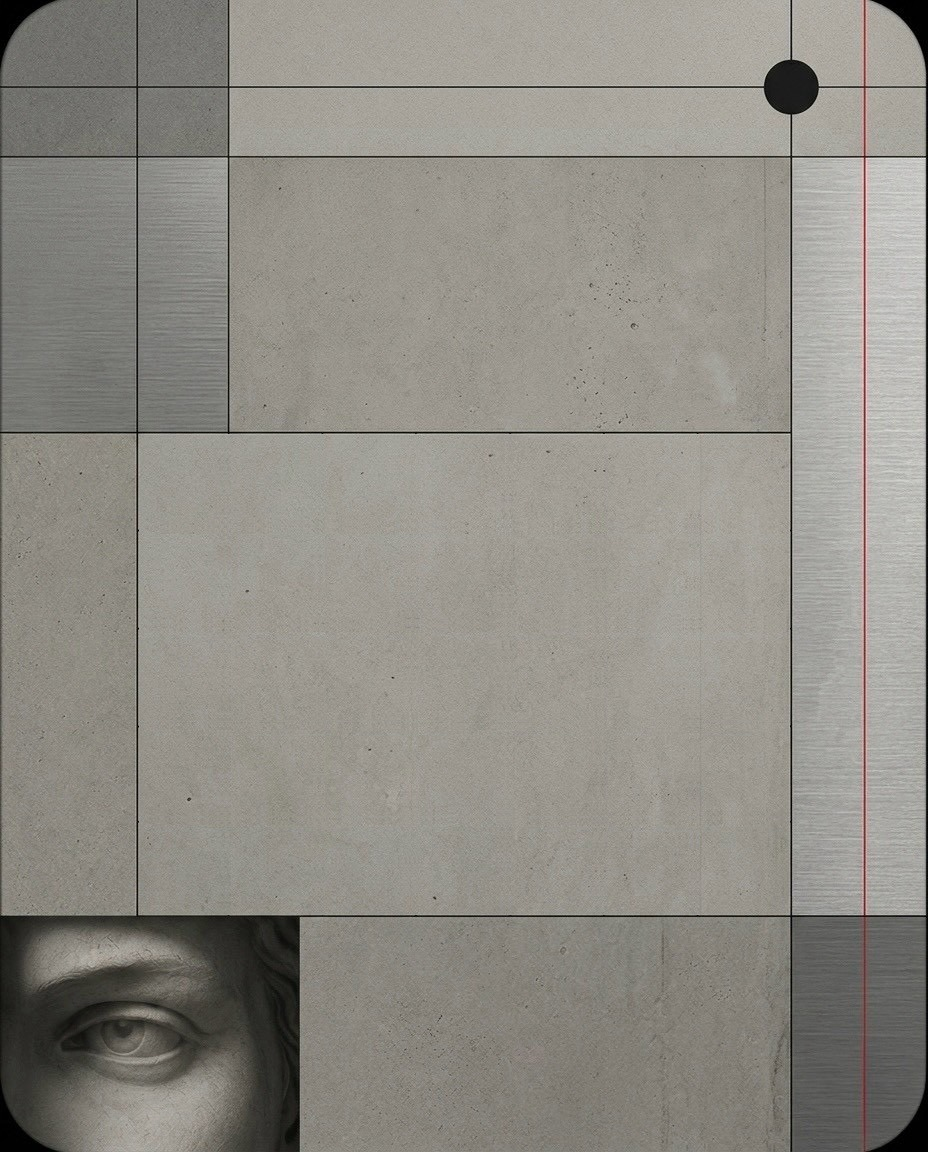
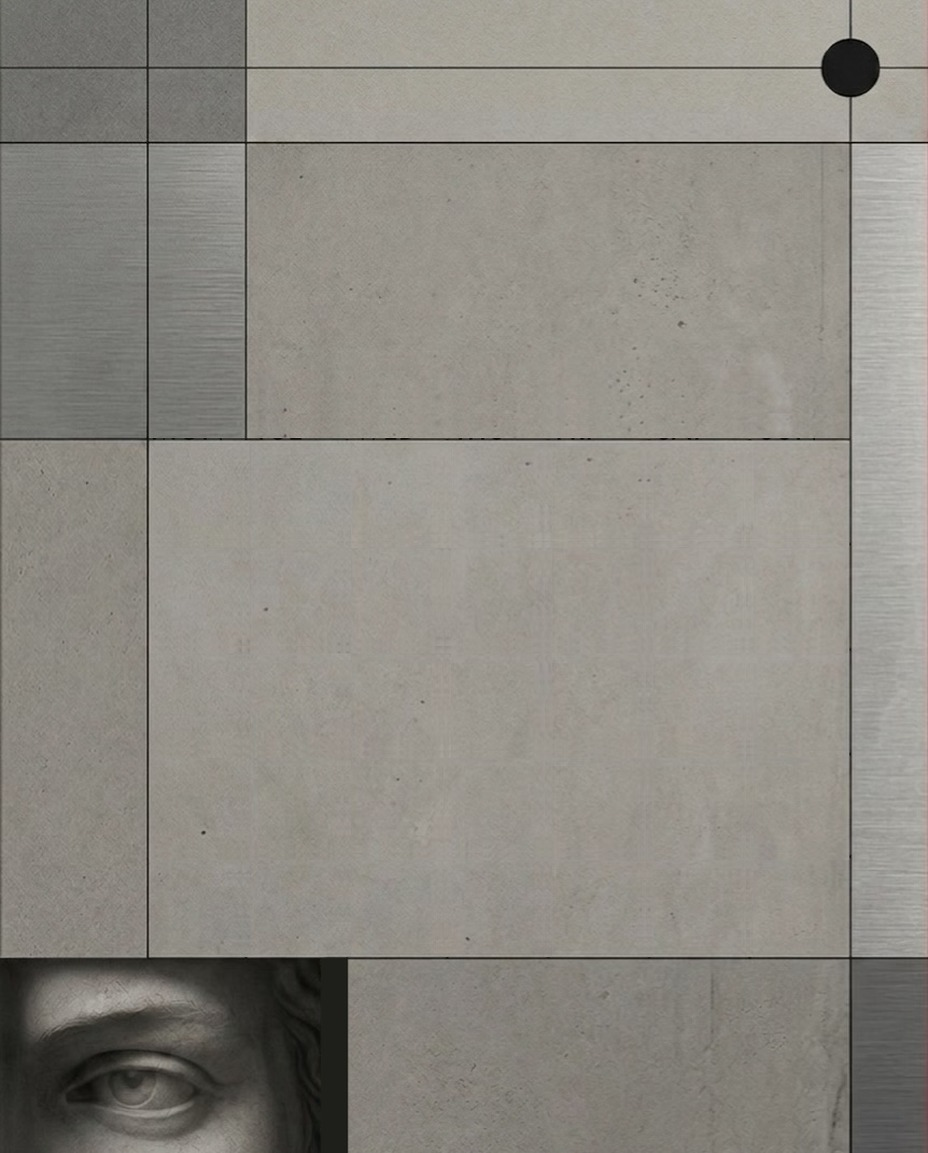
介面改為 Apple 風格（淺深色、分段控制、分組卡片、底部面板）；換上四角完整的底圖

diff --git a/index.html b/index.html
@@ -7,77 +7,112 @@
 <meta name="description" content="115 機械工程系學會每月封面與行事曆。AI 助手請閱讀本頁「給 AI 助手的說明」，把行事曆文字轉成網址回覆給使用者。">
 <link rel="stylesheet" href="https://fonts.googleapis.com/css2?family=Noto+Sans+TC:wght@100;300;400;500;700&family=Oswald:wght@400;500&display=swap">
 <style>
-/* Layout: dark concrete stage; header with month switch, two tabs (封面 / 行事曆), one large image per tab with its download button. */
+/* Shell follows Apple HIG: system font, grouped backgrounds, translucent bar, segmented control, inset-grouped cards. Light + dark. The poster below keeps its own fixed look. */
 :root{
-  color-scheme:dark;
-  --ground:#121213; --panel:#1b1b1c; --field:#252526; --rule:#39393b;
-  --ink:#ecebe7; --dim:#a19f9a; --accent:#a3201f; --accent-ink:#fff4f2; --ok:#8fc7a5;
-  --ui-font:"Noto Sans TC","PingFang TC",system-ui,sans-serif;
-  --num-font:Oswald,"Noto Sans TC",sans-serif;
+  color-scheme:light dark;
+  --bg:#f2f2f7; --card:#fff; --fill:rgba(118,118,128,.12); --fill2:rgba(118,118,128,.2);
+  --label:#000; --label2:rgba(60,60,67,.6); --label3:rgba(60,60,67,.3); --sep:rgba(60,60,67,.29);
+  --bar:rgba(249,249,249,.8); --seg-on:#fff; --seg-shadow:0 3px 8px rgba(0,0,0,.12),0 3px 1px rgba(0,0,0,.04);
+  --tint:#b3261e; --tint-ink:#fff; --green:#248a3d;
+  --shadow:0 8px 30px rgba(0,0,0,.14);
+  --ui-font:-apple-system,BlinkMacSystemFont,"SF Pro Text","PingFang TC","Noto Sans TC",system-ui,sans-serif;
   --red:#7c1010; --line:rgba(112,18,18,.92);
 }
-*{box-sizing:border-box}
+@media (prefers-color-scheme:dark){:root:not([data-theme="light"]){
+  --bg:#000; --card:#1c1c1e; --fill:rgba(118,118,128,.24); --fill2:rgba(118,118,128,.32);
+  --label:#fff; --label2:rgba(235,235,245,.6); --label3:rgba(235,235,245,.3); --sep:rgba(84,84,88,.65);
+  --bar:rgba(22,22,23,.8); --seg-on:#636366; --seg-shadow:0 3px 8px rgba(0,0,0,.12);
+  --tint:#ff453a; --tint-ink:#fff; --green:#30d158; --shadow:0 8px 30px rgba(0,0,0,.6);
+}}
+:root[data-theme="dark"]{
+  --bg:#000; --card:#1c1c1e; --fill:rgba(118,118,128,.24); --fill2:rgba(118,118,128,.32);
+  --label:#fff; --label2:rgba(235,235,245,.6); --label3:rgba(235,235,245,.3); --sep:rgba(84,84,88,.65);
+  --bar:rgba(22,22,23,.8); --seg-on:#636366; --seg-shadow:0 3px 8px rgba(0,0,0,.12);
+  --tint:#ff453a; --tint-ink:#fff; --green:#30d158; --shadow:0 8px 30px rgba(0,0,0,.6);
+}
+*{box-sizing:border-box;-webkit-tap-highlight-color:transparent}
 [hidden]{display:none!important}
-body{margin:0;background:var(--ground);color:var(--ink);font:14px/1.55 var(--ui-font);min-height:100vh}
+body{margin:0;background:var(--bg);color:var(--label);font:17px/1.35 var(--ui-font);letter-spacing:-.01em;min-height:100vh;-webkit-font-smoothing:antialiased}
 
-header{position:sticky;top:0;z-index:5;background:rgba(18,18,19,.94);backdrop-filter:blur(6px);border-bottom:1px solid var(--rule);padding:10px 16px 0;display:grid;gap:8px}
+/* navigation bar */
+header{position:sticky;top:0;z-index:5;background:var(--bar);-webkit-backdrop-filter:saturate(180%) blur(20px);backdrop-filter:saturate(180%) blur(20px);
+  border-bottom:.5px solid var(--sep);padding:calc(env(safe-area-inset-top) + 8px) 16px 10px;display:grid;gap:10px}
 .top{display:flex;align-items:center;justify-content:space-between;gap:12px;max-width:1100px;width:100%;margin:0 auto}
-.brand{margin:0;font-size:15px;font-weight:500;letter-spacing:.25em;white-space:nowrap}
-.brand small{display:block;font-size:11px;color:var(--dim);letter-spacing:.2em;font-weight:400}
-.month{display:flex;align-items:center;gap:6px}
-.month b{font:500 20px/1 var(--num-font);letter-spacing:.04em;min-width:96px;text-align:center;font-variant-numeric:tabular-nums}
-.tabs{display:flex;gap:4px;max-width:1100px;width:100%;margin:0 auto}
-.tabs button{border:0;border-bottom:2px solid transparent;border-radius:0;background:none;color:var(--dim);padding:8px 16px 10px;font-size:15px;letter-spacing:.3em}
-.tabs button[aria-selected="true"]{color:var(--ink);border-bottom-color:var(--accent)}
-@media(max-width:420px){.brand{font-size:13px;letter-spacing:.12em}.month b{min-width:80px;font-size:17px}}
+.brand{margin:0;font-size:22px;font-weight:700;letter-spacing:.01em;white-space:nowrap}
+.brand small{display:block;font-size:13px;color:var(--label2);font-weight:400;letter-spacing:0;margin-top:1px}
+.month{display:flex;align-items:center;gap:2px}
+.month b{font-size:17px;font-weight:600;min-width:92px;text-align:center;font-variant-numeric:tabular-nums}
+@media(max-width:420px){.brand{font-size:19px}.month b{min-width:80px;font-size:16px}}
 
-main{max-width:1100px;margin:0 auto;padding:20px 16px 48px}
-.view{display:grid;grid-template-columns:minmax(0,1fr) 340px;gap:24px;align-items:start}
-.side{display:flex;flex-direction:column;gap:16px;min-width:0}
+/* segmented control */
+.tabs{display:grid;grid-template-columns:1fr 1fr;padding:2px;border-radius:9px;background:var(--fill);max-width:360px;width:100%;margin:0 auto}
+.tabs button{border:0;border-radius:7px;background:none;color:var(--label);min-height:32px;padding:0 12px;font:500 14px/1 var(--ui-font);letter-spacing:0;transition:background .2s,box-shadow .2s}
+.tabs button[aria-selected="true"]{background:var(--seg-on);box-shadow:var(--seg-shadow);font-weight:600}
+
+main{max-width:1100px;margin:0 auto;padding:20px 16px calc(48px + env(safe-area-inset-bottom))}
+.view{display:grid;grid-template-columns:minmax(0,1fr) 360px;gap:28px;align-items:start}
+.side{display:flex;flex-direction:column;gap:20px;min-width:0}
 .frame{display:flex;justify-content:center;min-width:0}
-@media(max-width:860px){.view{grid-template-columns:minmax(0,1fr)}}
+@media(max-width:860px){.view{grid-template-columns:minmax(0,1fr);gap:24px}}
 
-#coverImg{display:block;width:100%;max-width:min(560px,calc((100vh - 170px)*.8));aspect-ratio:1080/1350;object-fit:cover;border-radius:6px;box-shadow:0 10px 40px rgba(0,0,0,.6);background:#6f6e6a}
-.nocover{width:100%;max-width:420px;aspect-ratio:1080/1350;border:1px dashed var(--rule);border-radius:6px;display:grid;place-items:center;color:var(--dim)}
+#coverImg{display:block;width:100%;max-width:min(560px,calc((100vh - 190px)*.8));aspect-ratio:1080/1350;object-fit:cover;border-radius:14px;box-shadow:var(--shadow);background:var(--fill)}
+.nocover{width:100%;max-width:420px;aspect-ratio:1080/1350;border-radius:14px;background:var(--card);display:grid;place-items:center;color:var(--label2);font-size:15px}
 
-h2{margin:0;font-size:14px;font-weight:700}
-.side p{margin:0;color:var(--dim);font-size:12.5px}
-textarea,input[type=text]{width:100%;background:var(--field);color:var(--ink);border:1px solid var(--rule);border-radius:8px;padding:9px 10px;font:inherit;font-size:14px;line-height:1.6}
+/* inset grouped content */
+.group{background:var(--card);border-radius:12px;overflow:hidden}
+.group>.row{padding:12px 16px}
+.group>.row+.row{border-top:.5px solid var(--sep);margin-left:16px;padding-left:0}
+h2{margin:0;font-size:22px;font-weight:700;letter-spacing:.01em}
+.hint{margin:6px 0 0;color:var(--label2);font-size:15px}
+.foot{margin:0;padding:0 16px;color:var(--label2);font-size:13px}
+textarea,input[type=text]{width:100%;background:var(--fill);color:var(--label);border:0;border-radius:10px;padding:10px 12px;font:inherit;font-size:16px;line-height:1.5}
 textarea{resize:vertical}
 #lines{min-height:220px;font-variant-numeric:tabular-nums}
-textarea:focus-visible,input:focus-visible,button:focus-visible,summary:focus-visible{outline:2px solid var(--accent);outline-offset:1px}
-button{background:var(--field);color:var(--ink);border:1px solid var(--rule);border-radius:8px;padding:8px 13px;font:inherit;cursor:pointer}
-button:hover:not(:disabled){border-color:#67676b}
-button:disabled{opacity:.55;cursor:default}
-button.pri{background:var(--accent);border-color:var(--accent);color:var(--accent-ink);font-weight:500;padding:11px 18px;font-size:15px}
-button.icon{width:36px;height:36px;padding:0;font-size:18px;line-height:1}
+textarea:focus-visible,input:focus-visible{outline:2px solid var(--tint);outline-offset:0}
+button:focus-visible,summary:focus-visible{outline:2px solid var(--tint);outline-offset:2px}
+button{background:var(--fill);color:var(--tint);border:0;border-radius:10px;min-height:44px;padding:0 16px;font:500 17px/1 var(--ui-font);cursor:pointer;transition:opacity .15s,transform .15s}
+button:active:not(:disabled){opacity:.6}
+button:disabled{opacity:.35;cursor:default}
+button.pri{width:100%;min-height:50px;border-radius:12px;background:var(--tint);color:var(--tint-ink);font-weight:600}
+button.icon{width:44px;height:44px;min-height:44px;padding:0;background:none;color:var(--tint);font-size:28px;font-weight:400;line-height:1;border-radius:22px}
+button.link{width:100%;background:none;min-height:44px;padding:0;border-radius:0;display:flex;justify-content:space-between;align-items:center;font-weight:400;color:var(--label)}
+button.link::after,summary::after{content:"";width:8px;height:8px;border-right:2px solid var(--label3);border-bottom:2px solid var(--label3);transform:rotate(-45deg);margin-right:4px;transition:transform .2s}
 .btns{display:flex;gap:8px;flex-wrap:wrap;align-items:center}
-.status{font-size:12.5px;color:var(--dim)}
-.status.ok{color:var(--ok)}
-details{border-top:1px solid var(--rule);padding-top:12px}
-summary{cursor:pointer;color:var(--ink);font-size:14px}
-.inner{display:grid;gap:10px;margin-top:10px}
-.fmt{margin:0;padding:0;list-style:none;display:grid;gap:6px;font-size:12.5px;color:var(--dim)}
-code{background:var(--field);color:var(--ink);padding:1px 6px;border-radius:4px;font-family:inherit}
-label{display:grid;gap:4px;font-size:12.5px;color:var(--dim)}
+.status{font-size:13px;color:var(--label2);min-height:18px;text-align:center;width:100%}
+.status.ok{color:var(--green)}
+details>summary{list-style:none;cursor:pointer;min-height:44px;display:flex;align-items:center;justify-content:space-between;font-size:17px}
+details>summary::-webkit-details-marker{display:none}
+details[open]>summary::after{transform:rotate(45deg)}
+.inner{display:grid;gap:12px;padding:4px 0 8px}
+.inner>p{margin:0;color:var(--label2);font-size:15px}
+.fmt{margin:0;padding:0;list-style:none;display:grid;gap:8px;font-size:14px;color:var(--label2)}
+code{background:var(--fill);color:var(--label);padding:2px 6px;border-radius:5px;font-family:inherit}
+label{display:grid;gap:6px;font-size:13px;color:var(--label2)}
+button.plain{align-self:start;background:none;padding:0;min-height:44px;color:var(--tint);font-weight:400}
 
-.aitext{font-size:12.5px;color:var(--dim)}
+.aitext{font-size:15px;color:var(--label2);line-height:1.45}
 .aitext p,.aitext ol,.aitext ul{margin:0}
-.aitext ol,.aitext ul{padding-left:20px;display:grid;gap:3px}
-.aitext b{color:var(--ink)}
-.aitext pre{background:var(--field);color:var(--ink);border-radius:4px;padding:8px 10px;white-space:pre-wrap;word-break:break-all;margin:0;font-family:inherit}
+.aitext ol,.aitext ul{padding-left:20px;display:grid;gap:4px}
+.aitext b{color:var(--label);font-weight:600}
+.aitext pre{background:var(--fill);color:var(--label);border-radius:10px;padding:10px 12px;white-space:pre-wrap;word-break:break-all;margin:0;font:13px/1.5 ui-monospace,SFMono-Regular,Menlo,monospace}
 
-#shot{position:fixed;inset:0;background:rgba(0,0,0,.88);display:flex;flex-direction:column;align-items:center;justify-content:center;gap:12px;padding:20px;z-index:10}
-#shot img{max-height:78%;max-width:100%;border-radius:8px}
-#shot p{margin:0}
+/* save sheet */
+#shot{position:fixed;inset:0;background:rgba(0,0,0,.45);-webkit-backdrop-filter:blur(8px);backdrop-filter:blur(8px);display:flex;align-items:flex-end;justify-content:center;z-index:10}
+.sheet{background:var(--card);width:100%;max-width:560px;max-height:92vh;border-radius:14px 14px 0 0;padding:8px 16px calc(16px + env(safe-area-inset-bottom));display:flex;flex-direction:column;align-items:center;gap:12px}
+.sheet .grab{width:36px;height:5px;border-radius:3px;background:var(--label3)}
+.sheet .bar2{width:100%;display:flex;justify-content:space-between;align-items:center}
+.sheet .bar2 b{font-size:17px;font-weight:600}
+.sheet .bar2 button{background:none;padding:0 4px;font-weight:600}
+#shot img{max-height:70vh;max-width:100%;border-radius:10px;box-shadow:var(--shadow)}
+#shot p{margin:0;color:var(--label2);font-size:13px}
 
 /* ---------- poster ---------- */
-#poster{position:relative;flex:none;background:#a9a7a1 url("bg.jpg") center/100% 100%;border-radius:calc(var(--u)*30);overflow:hidden;
-  box-shadow:0 10px 40px rgba(0,0,0,.6);font-family:"Noto Sans TC","PingFang TC",sans-serif;user-select:none}
+#poster{position:relative;flex:none;background:#a9a7a1 url("bg.jpg?v=2") center/100% 100%;overflow:hidden;
+  box-shadow:var(--shadow);font-family:"Noto Sans TC","PingFang TC",sans-serif;user-select:none}
 #poster>*{position:absolute}
 .notes{left:29.4%;top:16%;right:15%;font-weight:300;font-size:calc(var(--u)*17);line-height:1.85;letter-spacing:.3em;color:rgba(244,242,237,.94);white-space:pre-wrap;text-shadow:0 0 calc(var(--u)*1) rgba(0,0,0,.18)}
 .footer{right:9%;bottom:1.4%;font-weight:300;font-size:calc(var(--u)*21);letter-spacing:.85em;color:rgba(238,236,231,.9);white-space:nowrap;margin-right:2.85em}
-.wk{display:grid;grid-template-columns:repeat(7,1fr);align-items:end;font:500 calc(var(--u)*23)/1 Oswald,"Noto Sans TC",sans-serif;color:#66645f;letter-spacing:.02em}
+.wk{display:grid;grid-template-columns:repeat(7,1fr);align-items:end;font:500 calc(var(--u)*23)/1 Oswald,"Noto Sans TC",sans-serif;color:#45443f;letter-spacing:.02em}
 .wk span{padding-left:calc(var(--u)*7);padding-bottom:calc(var(--u)*2)}
 .layer{display:grid;grid-template-columns:repeat(7,1fr)}
 .fills,.fx{pointer-events:none;display:block}
@@ -103,12 +138,12 @@ label{display:grid;gap:4px;font-size:12.5px;color:var(--dim)}
   <div class="top">
     <h1 class="brand">115 機械工程系學會<small>每月封面 · 行事曆</small></h1>
     <div class="month">
-      <button class="icon" id="prev" aria-label="上個月">‹</button>
+      <button class="icon" id="prev" aria-label="上個月"><svg width="12" height="20" viewBox="0 0 12 20" fill="none" stroke="currentColor" stroke-width="2.6" stroke-linecap="round" stroke-linejoin="round" aria-hidden="true"><path d="M10 2 2 10l8 8"/></svg></button>
       <b id="mlabel"></b>
-      <button class="icon" id="next" aria-label="下個月">›</button>
+      <button class="icon" id="next" aria-label="下個月"><svg width="12" height="20" viewBox="0 0 12 20" fill="none" stroke="currentColor" stroke-width="2.6" stroke-linecap="round" stroke-linejoin="round" aria-hidden="true"><path d="m2 2 8 8-8 8"/></svg></button>
     </div>
   </div>
-  <nav class="tabs" role="tablist">
+  <nav class="tabs" role="tablist" aria-label="檢視">
     <button role="tab" id="tabCover" aria-selected="true">封面</button>
     <button role="tab" id="tabCal" aria-selected="false">行事曆</button>
   </nav>
@@ -118,23 +153,23 @@ label{display:grid;gap:4px;font-size:12.5px;color:var(--dim)}
   <section class="view" id="viewCover">
     <div class="frame"><img id="coverImg" alt="本月封面"><div class="nocover" id="noCover" hidden>這個月還沒有封面</div></div>
     <div class="side">
-      <h2>本月封面</h2>
-      <p>下載後可直接當 IG 貼文第一張。</p>
-      <div class="btns"><button class="pri" id="coverDl">下載封面</button></div>
-      <div class="btns"><button id="goCal">看行事曆 ›</button></div>
+      <div><h2>本月封面</h2><p class="hint">下載後可直接當 IG 貼文第一張。</p></div>
+      <button class="pri" id="coverDl">下載封面</button>
+      <div class="group"><div class="row"><button class="link" id="goCal">看行事曆</button></div></div>
     </div>
   </section>
 
   <section class="view" id="viewCal" hidden>
     <div class="frame" id="stage"><div id="poster"></div></div>
     <div class="side">
-      <h2>本月行事曆</h2>
+      <div><h2>本月行事曆</h2><p class="hint">下載 PNG，直接發 IG。</p></div>
       <div class="btns"><button class="pri" id="png">下載行事曆</button><span class="status" id="pngStatus"></span></div>
 
-      <details id="editBox">
+      <div class="group">
+      <details id="editBox" class="row">
         <summary>編輯本月內容</summary>
         <div class="inner">
-          <p>月曆會跟著這裡即時更新。點月曆上的日期，會在這裡加一行。修改只存在你自己的瀏覽器。</p>
+          <p>月曆會跟著這裡即時更新。點月曆上的日期，會在這裡加一行。</p>
           <textarea id="lines" spellcheck="false"></textarea>
           <ul class="fmt">
             <li><code>10/10 國慶日</code> 單日紅底</li>
@@ -143,12 +178,12 @@ label{display:grid;gap:4px;font-size:12.5px;color:var(--dim)}
             <li><code>線 10/12-10/31 停修 白</code> 期間線：白、藍、黑、紅</li>
             <li>沒有日期開頭的行 → 上方說明區</li>
           </ul>
-          <div class="btns"><button id="resetMonth">還原成公告版本</button></div>
           <label>底部署名<input type="text" id="footer"></label>
+          <button class="plain" id="resetMonth">還原成公告版本</button>
         </div>
       </details>
 
-      <details id="ai">
+      <details id="ai" class="row">
         <summary>用 AI 做新月份</summary>
         <div class="inner aitext">
 <p>在 ChatGPT、Claude 或 Gemini 輸入：「照這個網址的說明做 11 月行事曆：https://ijioxc.github.io/calendar/」，再貼上學校行事曆文字。AI 會回一個連結，點開就是做好的月曆。</p>
@@ -187,11 +222,13 @@ label{display:grid;gap:4px;font-size:12.5px;color:var(--dim)}
 <pre>https://ijioxc.github.io/calendar/#2026-10;申請課程停修：;10/12（一）-12/24（四）;;申請休退學，學雜費退還三分之一：;10/19（一）-11/29（日）;;10/9-10/11_國慶日_拆;10/24-10/26_光復節_拆;線_10/12-10/31_課程停修_白;線_10/19-10/31_休退學_藍</pre>
         </div>
       </details>
+      </div>
+      <p class="foot">修改只存在你自己的瀏覽器。</p>
     </div>
   </section>
 </main>
 
-<div id="shot" hidden><img id="shotImg" alt="圖片"><p>長按或右鍵圖片即可儲存</p><button id="shotClose">關閉</button></div>
+<div id="shot" hidden><div class="sheet" role="dialog" aria-modal="true" aria-labelledby="shotTitle"><span class="grab"></span><div class="bar2"><span></span><b id="shotTitle">儲存圖片</b><button id="shotClose">完成</button></div><img id="shotImg" alt="圖片"><p>長按圖片即可存到相簿</p></div></div>
 
 <script src="https://cdnjs.cloudflare.com/ajax/libs/html2canvas/1.4.1/html2canvas.min.js"></script>
 <script>
@@ -213,7 +250,7 @@ const COVER_V=2; /* 換封面圖時加 1，避免瀏覽器用舊圖 */
 
 const $=id=>document.getElementById(id);
 const pad=n=>String(n).padStart(2,'0');
-const W=928,RATIO=1152/928,G={x:14.762,y:37.5,w:70.474,h:42.014};
+const W=928,RATIO=1153/928,G={x:15.893,y:38.049,w:75.696,h:45.005};
 const WK=['MON','TUE','WED','THU','FRI','SAT','SUN'];
 const BAR={白:'#f3f3f0',藍:'#a9d4df',黑:'#232323',紅:'#7c1010'};
 const LABEL={白:'#2e2e2e',藍:'#86bccb',黑:'#232323',紅:'#7c1010'};
@@ -322,7 +359,7 @@ function render(){
 }
 function fitPoster(){
   if($('viewCal').hidden)return;
-  const aw=$('stage').clientWidth,ah=innerHeight-150;
+  const aw=$('stage').clientWidth,ah=innerHeight-document.querySelector('header').offsetHeight-44;
   const w=Math.max(260,Math.min(aw,ah/RATIO,640));
   poster.style.width=w+'px';poster.style.height=(w*RATIO)+'px';poster.style.setProperty('--u',(w/W)+'px');
 }
@@ -384,6 +421,8 @@ function save(blob,name){
   setTimeout(()=>{URL.revokeObjectURL(a.href);a.remove()},1000);return true;
 }
 $('shotClose').onclick=()=>{$('shot').hidden=true};
+$('shot').onclick=e=>{if(e.target===$('shot'))$('shot').hidden=true};
+addEventListener('keydown',e=>{if(e.key==='Escape')$('shot').hidden=true});
 $('coverDl').onclick=async()=>{
   const r=await fetch('covers/'+cur.m+'.jpg?v='+COVER_V);save(await r.blob(),`封面-${mk()}.jpg`);
 };
